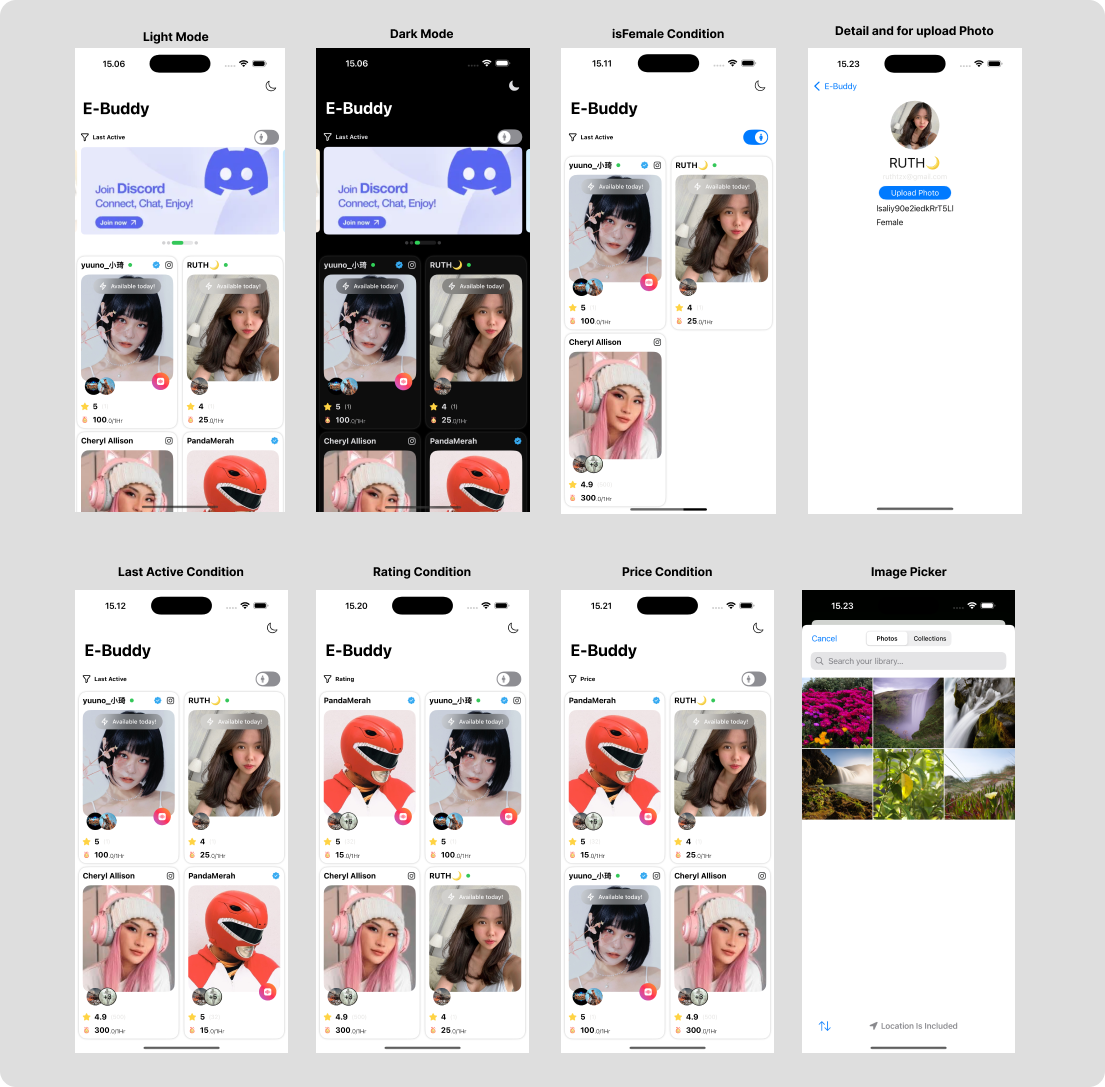
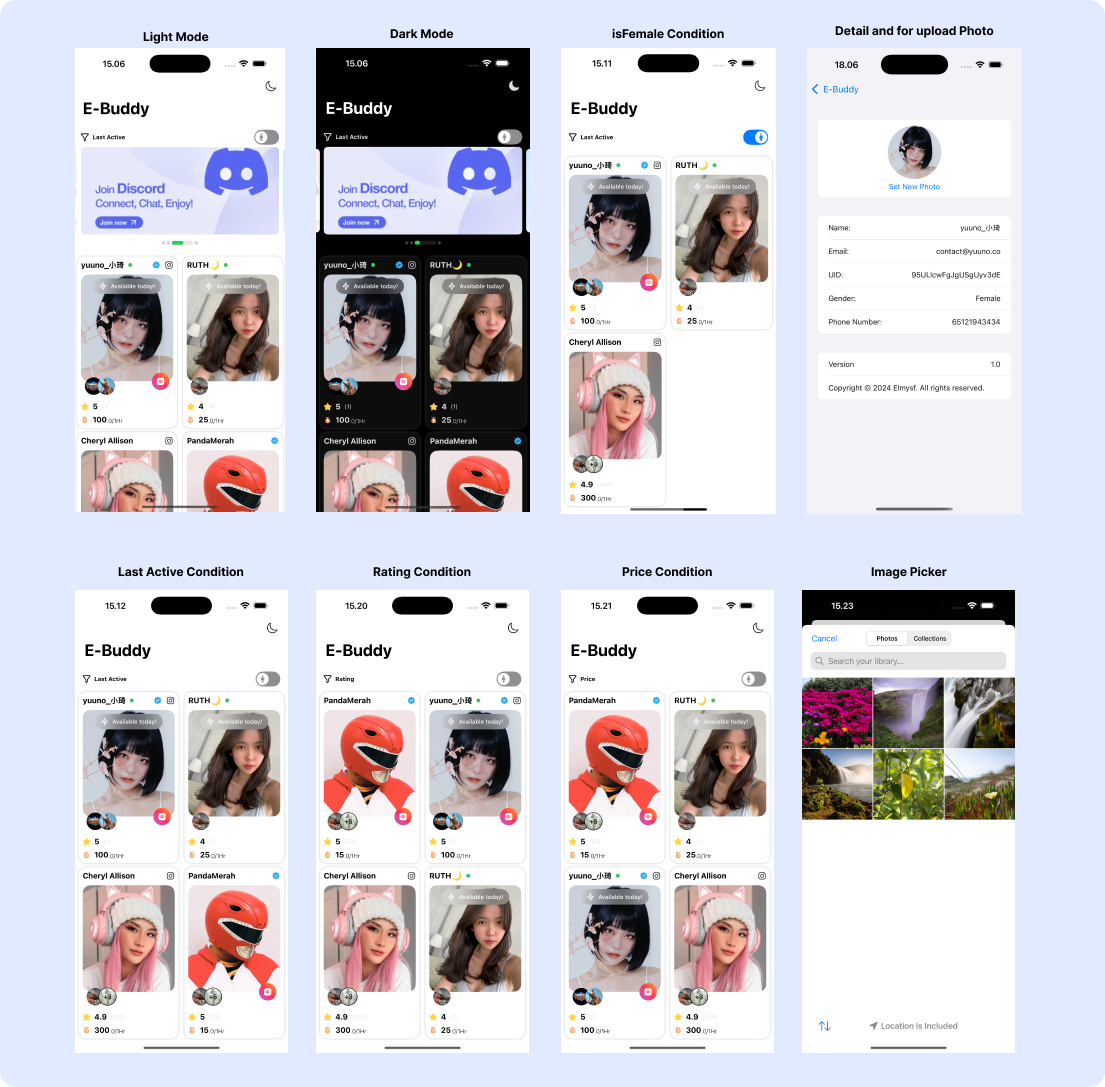
Commit 12: Updated screenshoot for README.md

diff --git a/EBuddy App/Module/User/View/CardDetailView.swift b/EBuddy App/Module/User/View/CardDetailView.swift
@@ -15,63 +15,111 @@ struct CardDetailView: View {
     let item: UserJsonModel
     
     var body: some View {
-        VStack() {
-            Spacer()
-            VStack() {
-                if let profileImage = item.profile {
-                    AsyncImage(url: URL(string: profileImage)) { image in
-                        image
+        NavigationView {
+            List {
+                VStack(alignment: .center) {
+                    if let profileImage = item.profile {
+                        AsyncImage(url: URL(string: profileImage)) { image in
+                            image
+                                .resizable()
+                                .centerCropped()
+                                .frame(width:100, height: 100, alignment: .center)
+                                .clipShape(Circle())
+                        } placeholder: {
+                            Image.imgDefault
+                                .resizable()
+                                .centerCropped()
+                                .frame(width:100, height: 100, alignment: .center)
+                                .clipShape(Circle())
+                        }
+                        .clipShape(Circle())
+                    } else {
+                        Image.imgUser
                             .resizable()
-                            .centerCropped()
-                            .frame(width:100, height: 100, alignment: .center)
-                            .clipShape(Circle())
-                    } placeholder: {
-                        Image.imgDefault
-                            .resizable()
-                            .centerCropped()
                             .frame(width:100, height: 100, alignment: .center)
                             .clipShape(Circle())
                     }
-                    .clipShape(Circle())
-                } else {
-                    Image.imgUser
-                        .resizable()
-                        .frame(width:100, height: 100, alignment: .center)
-                        .clipShape(Circle())
+                    
+                    Text("Set New Photo")
+                        .font(.system(size: 14, weight: .regular))
+                        .foregroundColor(.blue)
+                        .onTapGesture {
+                            self.showImagePicker = true
+                        }
                 }
-                Text(item.name ?? "")
-                    .font(.title)
-                    .foregroundStyle(Color.mainShadowColor)
-                Text(item.email)
-                    .font(.subheadline)
-                    .foregroundColor(.tertiary)
+                .frame(maxWidth: .infinity, alignment: .center)
                 
-                Button(action: {
-                    self.showImagePicker = true
-                }) {
-                    Text("Upload Photo")
-                        .frame(width: 150, height: 30)
-                        .font(.system(size: 16))
-                        .foregroundColor(.white)
-                        .overlay(
-                            RoundedRectangle(cornerRadius: 25)
-                                .stroke(Color.white, lineWidth: 2))
+                Section() {
+                    HStack() {
+                        Text("Name:")
+                            .font(.system(size: 14, weight: .regular))
+                            .foregroundColor(.mainShadowColor)
+                        Spacer()
+                        Text(item.name ?? "")
+                            .font(.system(size: 14, weight: .regular))
+                            .foregroundColor(.mainShadowColor)
+                    }
+                    
+                    HStack() {
+                        Text("Email:")
+                            .font(.system(size: 14, weight: .regular))
+                            .foregroundColor(.mainShadowColor)
+                        Spacer()
+                        Text(item.email)
+                            .font(.system(size: 14, weight: .regular))
+                            .foregroundColor(.mainShadowColor)
+                    }
+                    
+                    HStack() {
+                        Text("UID:")
+                            .font(.system(size: 14, weight: .regular))
+                            .foregroundColor(.mainShadowColor)
+                        Spacer()
+                        Text(item.uid)
+                            .font(.system(size: 14, weight: .regular))
+                            .foregroundColor(.mainShadowColor)
+                    }
+                    
+                    HStack() {
+                        Text("Gender:")
+                            .font(.system(size: 14, weight: .regular))
+                            .foregroundColor(.mainShadowColor)
+                        Spacer()
+                        Text(item.genderInformation)
+                            .font(.system(size: 14, weight: .regular))
+                            .foregroundColor(.mainShadowColor)
+                    }
+                    
+                    if !item.phoneNumber.isEmpty {
+                        HStack() {
+                            Text("Phone Number:")
+                                .font(.system(size: 14, weight: .regular))
+                                .foregroundColor(.mainShadowColor)
+                            Spacer()
+                            Text(item.phoneNumber)
+                                .font(.system(size: 14, weight: .regular))
+                                .foregroundColor(.mainShadowColor)
+                        }
+                    }
                 }
-                .background(Color.blue)
-                .cornerRadius(25)
                 
-                VStack(alignment: .leading, spacing: 8){
-                    Text(item.uid)
+                Section() {
+                    HStack {
+                        Text("Version")
+                            .font(.system(size: 14, weight: .regular))
+                            .foregroundColor(.mainShadowColor)
+                        Spacer()
+                        Text(cardVM.appVersion)
+                            .font(.system(size: 14, weight: .regular))
+                            .foregroundColor(.mainShadowColor)
+                    }
+                    
+                    Text(cardVM.copyrightInfo)
                         .foregroundColor(.mainShadowColor)
-                    Text(item.genderInformation)
-                        .foregroundColor(.mainShadowColor)
-                    Text(item.phoneNumber)
-                        .foregroundColor(.mainShadowColor)
+                        .font(.system(size: 14, weight: .regular))
                 }
-                Spacer()
             }
         }
-        .padding(.horizontal, 16)
         .sheet(isPresented: $showImagePicker) {
             ImagePicker(image: $profileImage)
         }

diff --git a/EBuddy App/Module/User/ViewModel/CardUserViewModel.swift b/EBuddy App/Module/User/ViewModel/CardUserViewModel.swift
@@ -93,4 +93,12 @@ class CardUserViewModel: ObservableObject {
             return "Price"
         }
     }
+    
+    var appVersion: String {
+        Bundle.main.infoDictionary?["CFBundleShortVersionString"] as? String ?? ""
+    }
+
+    var copyrightInfo: String {
+        Bundle.main.infoDictionary?["NSHumanReadableCopyright"] as? String ?? ""
+    }
 }
